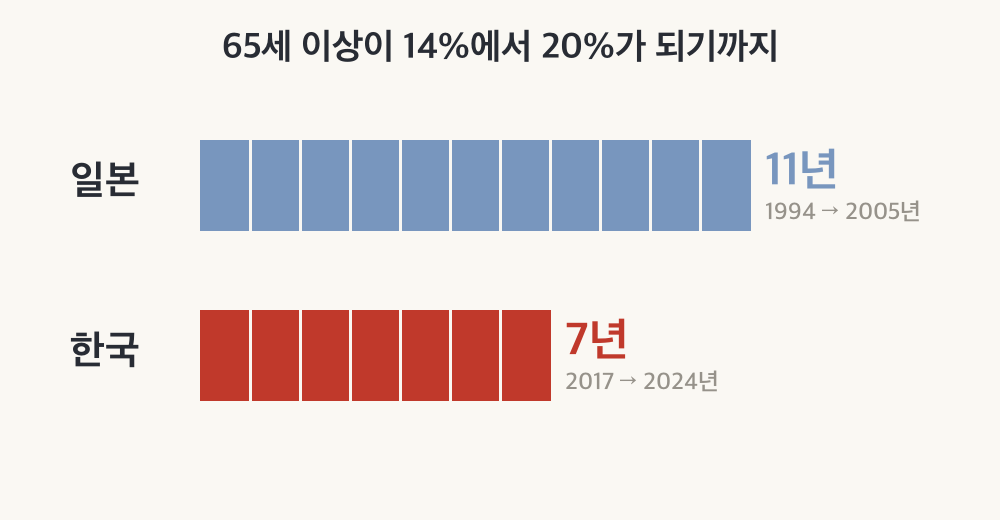
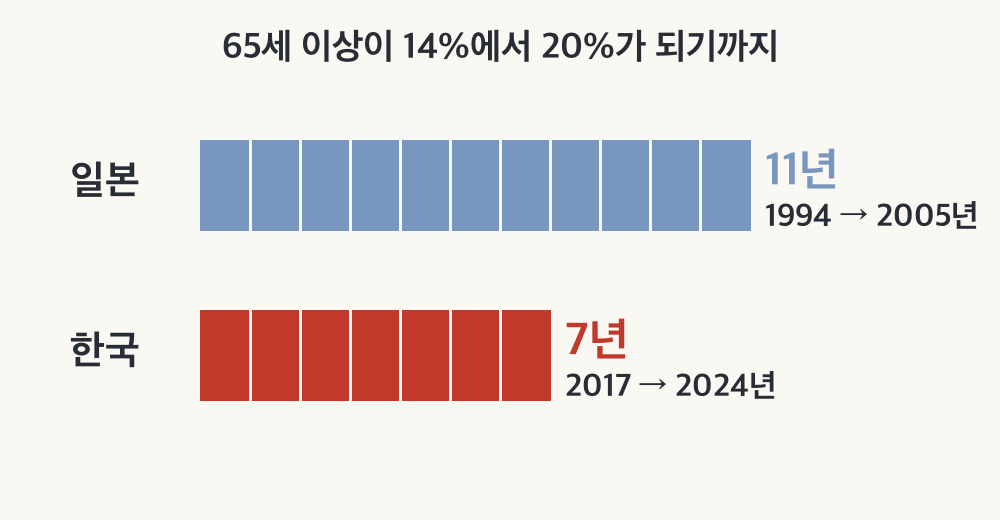
사회② 7-7 3단계 — 읽기 상자·접기를 넘김 카드 4장으로(그림 3장 새로, 속도 그림 글자 키움), 고령/초고령 나누는 까닭 보충 — id·answer·label 동일, 메인·역사 🔴0
Claude-Session: https://claude.ai/code/session_0112jfuNjXUAgEuhZG5Yg8vB

Changed region(s): [[0.744, 0.3692, 0.992, 0.4615], [0.558, 0.7077, 0.775, 0.7692]]

diff --git a/worksheets/7-7차시_우리나라의인구문제_개념편.html b/worksheets/7-7차시_우리나라의인구문제_개념편.html
@@ -1415,19 +1415,27 @@ details.v2t-legend ul{margin-top:10px}
 <br>
 <blockquote>🎙 노인 한 명을 떠받치는 사람이 줄어든다는 건, 한 사람이 짊어질 몫이 그만큼 무거워진다는 뜻이야. 교과서 그래프의 숫자가 해마다 어떻게 바뀌는지 짚어 보자.</blockquote>
 <br>
-<div class="ws-read"><div class="ws-read-tag">읽고 넘어가는 곳</div><p>Ⅴ단원의 '경제 활동 인구'는 15세 이상 가운데 일할 뜻과 능력이 있는 사람이었다. 오늘 나온 인구는 그보다 단순하게 <strong>나이로만</strong> 15~64세를 묶는다.</p><p>노인이 늘고 이 연령대가 줄면, 한 사람이 떠받쳐야 할 무게가 커진다.</p></div>
 <br>
-<details class="ws-fold ws-fold-더보기"><summary>다 채운 뒤에 — 예측보다 빨랐다</summary><div class="ws-fold-body">
-<p>교사용 교과서에 실린 2016년 예측은 우리나라의 65세 이상 비율이 2027년에 20%를 넘는다고 보았다. 실제로는 2024년 12월이었다. 예측보다 세 해 빨랐다.</p>
-<p>🎙 7-5에서 본 일본은 세계에서 가장 먼저 20%를 넘은 나라야. 그런 일본도 14%에서 20%까지 10년 넘게 걸렸는데, 우리나라는 7년 만에 왔어.</p>
-</div></details>
+<div class="ws-sw sw-news" id="sw65" data-cur="0"><div class="ws-sw-head">📰 다 채운 뒤에 넘겨 보자 — 계단, 떠받치는 사람, 빗나간 예측</div><div class="ws-sw-tabs" role="tablist"><button type="button" role="tab" class="ws-sw-tab on" onclick="swGo('sw65',0)" aria-label="먼저 위 칸부터">1</button><button type="button" role="tab" class="ws-sw-tab" onclick="swGo('sw65',1)" aria-label="왜 세 계단으로 나눌까">2</button><button type="button" role="tab" class="ws-sw-tab" onclick="swGo('sw65',2)" aria-label="노인 한 명을 떠받치는 사람">3</button><button type="button" role="tab" class="ws-sw-tab" onclick="swGo('sw65',3)" aria-label="예측보다 빨랐다">4</button></div><div class="ws-sw-stage">
+<section class="ws-sw-pane" data-i="0"><h3 class="ws-sw-h">먼저 위 칸부터</h3>
+<figure class="ws-fig"><a class="ws-fig-zoom" href="images/7-5_card_cover_v2.png" target="_blank" rel="noopener" title="눌러서 크게 보기"><img src="images/7-5_card_cover_v2.png" alt="먼저 위 칸에 내 답을 쓰고, 그다음 넘겨 보자" loading="lazy"></a><figcaption>먼저 위 칸에 내 답을 쓰고, 그다음 넘겨 보자</figcaption></figure>
+</section><section class="ws-sw-pane" data-i="1" hidden><h3 class="ws-sw-h">왜 세 계단으로 나눌까</h3>
+<figure class="ws-fig"><a class="ws-fig-zoom" href="images/7-7_fig_steps.png" target="_blank" rel="noopener" title="눌러서 크게 보기"><img src="images/7-7_fig_steps.png" alt="65세 이상 비율로 나눈 세 계단 — 7% 고령화 사회(한국 2000·일본 1970), 14% 고령 사회(한국 2017·일본 1994), 20% 초고령 사회(한국 2024·일본 2005)" loading="lazy"></a><figcaption>65세 이상 비율로 나눈 세 계단 — 7% 고령화 사회(한국 2000·일본 1970), 14% 고령 사회(한국 2017·일본 1994), 20% 초고령 사회(한국 2024·일본 2005)</figcaption></figure>
+<p>65세 이상이 전체 인구의 7%를 넘으면 고령화 사회, 14%를 넘으면 고령 사회, 20%를 넘으면 초고령 사회라고 부른다. 노인이 '몇 명'인지가 아니라 '몇 %'인지로 정한다. 100명 가운데 노인이 10명이면 10%다. 노인은 그대로 10명인데 아이가 덜 태어나 전체가 80명이 되면 12.5%로 오른다. 계단을 나눠 두면 다음 계단까지 몇 해 걸렸는지로 늙는 속도를 견줄 수 있다. 위 막대그래프(한국 7년, 일본 11년)가 바로 이 걸린 해를 견준 것이다.</p>
+</section><section class="ws-sw-pane" data-i="2" hidden><h3 class="ws-sw-h">노인 한 명을 떠받치는 사람</h3>
+<figure class="ws-fig"><a class="ws-fig-zoom" href="images/7-7_fig_support.png" target="_blank" rel="noopener" title="눌러서 크게 보기"><img src="images/7-7_fig_support.png" alt="노인 1명을 떠받치는 15~64세 — 2026년 약 3.2명, 2050년(추계) 약 1.3명" loading="lazy"></a><figcaption>노인 1명을 떠받치는 15~64세 — 2026년 약 3.2명, 2050년(추계) 약 1.3명</figcaption></figure>
+<p>Ⅴ단원의 '경제 활동 인구'는 15세 이상 가운데 일할 뜻과 능력이 있는 사람이었다. 위 빈칸 ④의 인구는 그보다 단순하게 나이로만 15~64세를 묶는다. 2026년에는 노인 한 명을 이 나이의 사람 3명 남짓이 떠받치지만, 2050년에는 1명 남짓이 떠받치게 될 것으로 내다본다.</p>
+</section><section class="ws-sw-pane" data-i="3" hidden><h3 class="ws-sw-h">예측보다 빨랐다</h3>
+<figure class="ws-fig"><a class="ws-fig-zoom" href="images/7-7_fig_forecast.png" target="_blank" rel="noopener" title="눌러서 크게 보기"><img src="images/7-7_fig_forecast.png" alt="65세 이상 20% — 2016년 예측은 2027년, 실제는 2024년 12월(2년 남짓 빨랐다)" loading="lazy"></a><figcaption>65세 이상 20% — 2016년 예측은 2027년, 실제는 2024년 12월(2년 남짓 빨랐다)</figcaption></figure>
+<p>2016년 미국 인구 조사국의 예측은 우리나라의 65세 이상 비율이 2027년에 20%를 넘는다고 보았다. 실제로는 2024년 12월로, 2년 남짓 빨랐다. 7-5에서 본 일본은 세계에서 가장 먼저 20%를 넘은 나라인데, 그런 일본도 14%에서 20%까지 10년 넘게 걸렸다.</p>
+</section></div><div class="ws-sw-nav"><button type="button" onclick="swStep('sw65',-1)">‹ 이전</button><span class="ws-sw-count"><b>1</b> / 4</span><button type="button" onclick="swStep('sw65',1)">다음 ›</button></div></div><script>(function(){if(!window.swGo){window.swGo=function(id,i){var g=document.getElementById(id);if(!g)return;var ps=g.querySelectorAll(".ws-sw-pane"),n=ps.length;i=((i%n)+n)%n;ps.forEach(function(e){e.hidden=(+e.dataset.i!==i);});g.querySelectorAll(".ws-sw-tab").forEach(function(e,k){e.classList.toggle("on",k===i);e.setAttribute("aria-selected",k===i);});var c=g.querySelector(".ws-sw-count b");if(c)c.textContent=i+1;g.dataset.cur=i;};window.swStep=function(id,d){var g=document.getElementById(id);if(g)swGo(id,(+(g.dataset.cur||0))+d);};}var g=document.getElementById("sw65"),x0=null,y0=null;if(!g)return;g.querySelector(".ws-sw-stage").addEventListener("touchstart",function(e){x0=e.touches[0].clientX;y0=e.touches[0].clientY;},{passive:true});g.querySelector(".ws-sw-stage").addEventListener("touchend",function(e){if(x0===null)return;var dx=e.changedTouches[0].clientX-x0,dy=e.changedTouches[0].clientY-y0;x0=null;if(Math.abs(dx)>60&&Math.abs(dx)>1.5*Math.abs(dy)){var t=e.target;if(t.closest&&t.closest("input,textarea,.ws-vcd-track,.ws-mb,.ws-gal,.pk-swipe"))return;swStep("sw65",dx<0?1:-1);g.scrollIntoView({block:"start",behavior:"smooth"});}},{passive:true});})();</script>
 <br>
 <h2>📖 4단계: 아빠의 육아 휴직, 일하는 노인</h2>
 <blockquote>📕 <strong>교과서 141쪽 펴고 · 배정 시간 9분</strong></blockquote>
 <br>
 <div class="ws-tb"><div class="ws-tb-tag">📕 교과서 141쪽 · 스스로 탐구 「우리나라의 저출산 문제」</div><div class="ws-2c c2-mid ws-tb-2cin" style="grid-template-columns:minmax(0,1fr) minmax(0,1.05fr)"><div class="c2-a"><figure class="ws-tb-fig"><img src="images/7-7_photo_dad.jpg" alt="아기 띠를 멘 아빠" loading="lazy"><figcaption>아기 띠를 멘 아빠</figcaption></figure></div><div class="c2-b"><div class="ws-tb-see">우리나라와 노르웨이의 합계 출산율 그래프와 아버지 육아 휴직 이야기를 읽자.</div><div class="ws-tb-see">노르웨이는 1993년부터 육아 휴직 가운데 아버지만 쓸 수 있는 몫을 따로 할당했다. 쉬는 동안에도 월급의 대부분을 받는 유급 휴직이다.</div><div class="ws-tb-ask">노르웨이의 사례를 보고, 우리나라의 합계 출산율을 높이려면 어떤 대책이 필요할지 적자. <input type="text" class="blank-input activity-input no-score" data-id="act-2" data-label="교과서 141쪽에서 찾기 — 노르웨이의 사례를 보고, 우리나라의 합계 출산율을 높이려면 어떤 대책" style="width:360px" placeholder=""></div></div></div></div>
 <br>
-<div class="ws-sw sw-news" id="sw76" data-cur="0"><div class="ws-sw-head">📰 다 채운 뒤에 넘겨 보자 — 교과서 그 뒤의 두 나라</div><div class="ws-sw-tabs" role="tablist"><button type="button" role="tab" class="ws-sw-tab on" onclick="swGo('sw76',0)" aria-label="우리나라 아빠는">1</button><button type="button" role="tab" class="ws-sw-tab" onclick="swGo('sw76',1)" aria-label="노르웨이는">2</button></div><div class="ws-sw-stage">
+<div class="ws-sw sw-news" id="sw84" data-cur="0"><div class="ws-sw-head">📰 다 채운 뒤에 넘겨 보자 — 교과서 그 뒤의 두 나라</div><div class="ws-sw-tabs" role="tablist"><button type="button" role="tab" class="ws-sw-tab on" onclick="swGo('sw84',0)" aria-label="우리나라 아빠는">1</button><button type="button" role="tab" class="ws-sw-tab" onclick="swGo('sw84',1)" aria-label="노르웨이는">2</button></div><div class="ws-sw-stage">
 <section class="ws-sw-pane" data-i="0"><h3 class="ws-sw-h">우리나라 아빠는</h3>
 <figure class="ws-fig"><a class="ws-fig-zoom" href="images/7-7_card_dad_v2.png" target="_blank" rel="noopener" title="눌러서 크게 보기"><img src="images/7-7_card_dad_v2.png" alt="2024년 육아 휴직을 쓴 사람 가운데 아빠는 열 명 가운데 셋 — 아빠 사용률은 처음으로 10%를 넘었다(10.2%)" loading="lazy"></a><figcaption>2024년 육아 휴직을 쓴 사람 가운데 아빠는 열 명 가운데 셋 — 아빠 사용률은 처음으로 10%를 넘었다(10.2%)</figcaption></figure>
 <p>교과서는 2014년 우리나라 아버지의 육아 휴직 사용률이 4.5%라고 적었다. 2024년에는 육아 휴직을 쓴 사람 열 명 가운데 셋이 아빠였고, 아빠들의 사용률이 처음으로 10%를 넘었다.</p>
@@ -1435,12 +1443,12 @@ details.v2t-legend ul{margin-top:10px}
 <figure class="ws-fig"><a class="ws-fig-zoom" href="images/7-7_map_norway.png" target="_blank" rel="noopener" title="눌러서 크게 보기"><img src="images/7-7_map_norway.png" alt="노르웨이 — 7-5에서 본 스웨덴·핀란드와 이웃한 북유럽 나라. 수도는 오슬로" loading="lazy"></a><figcaption>노르웨이 — 7-5에서 본 스웨덴·핀란드와 이웃한 북유럽 나라. 수도는 오슬로</figcaption></figure>
 <p>그런데 교과서가 본보기로 든 노르웨이의 합계 출산율도 2025년 1.48명으로, 스웨덴·프랑스처럼 내려와 있다.</p>
 <blockquote>🎙 7-5부터 계속 같은 질문이 나오지? 좋은 정책을 편 나라도 출산율이 내려간다면, 정책 말고 또 무엇이 필요할까. 마지막 칸에서 네 답을 들어 볼게.</blockquote>
-</section></div><div class="ws-sw-nav"><button type="button" onclick="swStep('sw76',-1)">‹ 이전</button><span class="ws-sw-count"><b>1</b> / 2</span><button type="button" onclick="swStep('sw76',1)">다음 ›</button></div></div><script>(function(){if(!window.swGo){window.swGo=function(id,i){var g=document.getElementById(id);if(!g)return;var ps=g.querySelectorAll(".ws-sw-pane"),n=ps.length;i=((i%n)+n)%n;ps.forEach(function(e){e.hidden=(+e.dataset.i!==i);});g.querySelectorAll(".ws-sw-tab").forEach(function(e,k){e.classList.toggle("on",k===i);e.setAttribute("aria-selected",k===i);});var c=g.querySelector(".ws-sw-count b");if(c)c.textContent=i+1;g.dataset.cur=i;};window.swStep=function(id,d){var g=document.getElementById(id);if(g)swGo(id,(+(g.dataset.cur||0))+d);};}var g=document.getElementById("sw76"),x0=null,y0=null;if(!g)return;g.querySelector(".ws-sw-stage").addEventListener("touchstart",function(e){x0=e.touches[0].clientX;y0=e.touches[0].clientY;},{passive:true});g.querySelector(".ws-sw-stage").addEventListener("touchend",function(e){if(x0===null)return;var dx=e.changedTouches[0].clientX-x0,dy=e.changedTouches[0].clientY-y0;x0=null;if(Math.abs(dx)>60&&Math.abs(dx)>1.5*Math.abs(dy)){var t=e.target;if(t.closest&&t.closest("input,textarea,.ws-vcd-track,.ws-mb,.ws-gal,.pk-swipe"))return;swStep("sw76",dx<0?1:-1);g.scrollIntoView({block:"start",behavior:"smooth"});}},{passive:true});})();</script>
+</section></div><div class="ws-sw-nav"><button type="button" onclick="swStep('sw84',-1)">‹ 이전</button><span class="ws-sw-count"><b>1</b> / 2</span><button type="button" onclick="swStep('sw84',1)">다음 ›</button></div></div><script>(function(){if(!window.swGo){window.swGo=function(id,i){var g=document.getElementById(id);if(!g)return;var ps=g.querySelectorAll(".ws-sw-pane"),n=ps.length;i=((i%n)+n)%n;ps.forEach(function(e){e.hidden=(+e.dataset.i!==i);});g.querySelectorAll(".ws-sw-tab").forEach(function(e,k){e.classList.toggle("on",k===i);e.setAttribute("aria-selected",k===i);});var c=g.querySelector(".ws-sw-count b");if(c)c.textContent=i+1;g.dataset.cur=i;};window.swStep=function(id,d){var g=document.getElementById(id);if(g)swGo(id,(+(g.dataset.cur||0))+d);};}var g=document.getElementById("sw84"),x0=null,y0=null;if(!g)return;g.querySelector(".ws-sw-stage").addEventListener("touchstart",function(e){x0=e.touches[0].clientX;y0=e.touches[0].clientY;},{passive:true});g.querySelector(".ws-sw-stage").addEventListener("touchend",function(e){if(x0===null)return;var dx=e.changedTouches[0].clientX-x0,dy=e.changedTouches[0].clientY-y0;x0=null;if(Math.abs(dx)>60&&Math.abs(dx)>1.5*Math.abs(dy)){var t=e.target;if(t.closest&&t.closest("input,textarea,.ws-vcd-track,.ws-mb,.ws-gal,.pk-swipe"))return;swStep("sw84",dx<0?1:-1);g.scrollIntoView({block:"start",behavior:"smooth"});}},{passive:true});})();</script>
 <br>
 <blockquote>📊 <strong>우리나라 노인 열 명 가운데 넷은 가난하다</strong> — 66세 이상 가운데 소득이 우리나라 중간 소득의 절반에 못 미치는 사람이 40.4%로, OECD 나라 가운데 가장 높다(평균 14.2%). 고령화 대책이 연금 하나로는 모자란 까닭이다.</blockquote>
 <br>
 <style>/* 2026-10-26 사회 7-5 «좁게» — 그림 없는 짧은 카드. 데스크톱은 한 줄에 다 놓고, 폰은 «이름·값 | 버튼» 한 줄씩 */ .pk-grid.pk-tight { grid-template-columns: repeat(auto-fit, minmax(118px, 1fr)); gap: 8px; } .pk-tight .pk-card { padding: 8px 6px; } .pk-tight .pk-sit { min-height: 0; margin: 2px 0 7px; } .pk-tight .pk-b { padding: 5px 1px; word-break: keep-all; line-height: 1.25; font-size: .74em; } .pk-tight .pk-btns { gap: 3px; } @media (max-width: 640px) {   .pk-grid.pk-tight { grid-template-columns: 1fr; gap: 6px; }   .pk-tight .pk-card { display: grid; grid-template-columns: minmax(0, 1fr) minmax(0, 1.25fr); column-gap: 10px; align-items: center; text-align: left; padding: 7px 10px; }   .pk-tight .pk-name, .pk-tight .pk-sit { grid-column: 1; margin: 0; }   .pk-tight .pk-btns { grid-column: 2; grid-row: 1 / span 2; }   .pk-tight .pk-why { grid-column: 1 / -1; } } /* 2026-10-27 사회 7-5 «센 수/견준 값»: 금테 카드도 «좁게» — 칸마다 깔던 크림 판 대신 카드 하나를 크림 판+금테(배경 두 겹)로. 폰 두 칸 배치에서 판이 조각나던 것 */ .pk-gold.pk-tight .pk-card, .pk-gold.pk-tight .pk-card.pk-noimg { padding: 9px 8px; border: 5px solid transparent; border-radius: 13px; background: linear-gradient(#fdf7e6, #fdf7e6) padding-box, linear-gradient(150deg, #fbe9a8 0%, #e7c257 34%, #c9992e 62%, #f3dc98 100%) border-box; } .pk-gold.pk-tight .pk-name, .pk-gold.pk-tight .pk-sit, .pk-gold.pk-tight .pk-btns, .pk-gold.pk-tight .pk-why, .pk-gold.pk-tight .pk-card.pk-noimg .pk-name { background: none; padding: 0; border-radius: 0; } .pk-gold.pk-tight .pk-name { font-size: .95em; line-height: 1.35; word-break: keep-all; } .pk-gold.pk-tight .pk-sit { word-break: keep-all; } .pk-gold.pk-tight .pk-sit { font-size: .8em; line-height: 1.4; margin: 3px 0 7px; } .pk-gold.pk-tight .pk-why { margin-top: 6px; } .pk-gold.pk-tight:has(> .pk-card:nth-child(6)), .pk-gold.pk-tight:has(.pk-b:nth-child(3)) { grid-template-columns: repeat(3, minmax(0, 1fr)); } @media (max-width: 640px) { .pk-grid.pk-gold.pk-tight, .pk-gold.pk-tight:has(> .pk-card:nth-child(6)), .pk-gold.pk-tight:has(.pk-b:nth-child(3)) { grid-template-columns: repeat(2, minmax(0, 1fr)); gap: 7px; } .pk-gold.pk-tight .pk-card, .pk-gold.pk-tight .pk-card.pk-noimg { display: flex; flex-direction: column; text-align: left; padding: 8px 10px; } .pk-gold.pk-tight .pk-sit { margin: 2px 0 6px; } .pk-gold.pk-tight .pk-card.pk-noimg .pk-btns:has(> .pk-b:nth-child(3)) { grid-auto-flow: row; grid-template-columns: 1fr; } .pk-gold.pk-tight .pk-card.pk-noimg .pk-btns:has(> .pk-b:nth-child(4)) { grid-template-columns: 1fr 1fr; } .pk-gold.pk-tight .pk-card.pk-noimg .pk-btns:not(.pk-btns-col) { align-content: center; } }</style>
-<div class="ws-pick" id="pk88"><div class="pk-head"><span>이 숫자는 어떻게 만든 숫자일까? 사람·물건을 하나하나 센 숫자(몇 명·몇 개)이면 '센 수', 전체나 넓이·사람 수로 나눠 견준 숫자(몇 %·○○당)이면 '견준 값'을 고르자. 다 고르면 정답이 나오고, 틀린 카드는 까닭이 먼저 펼쳐진다.</span><b class="pk-count">0 / 5</b></div><div class="pk-grid pk-gold pk-tight"><div class="pk-card pk-noimg" data-i="0" data-ans="견준 값"><div class="pk-name">전라남도 65세 이상 27.18%</div><div class="pk-sit">2024년 말 전라남도 사람 가운데 65세 이상</div><div class="pk-btns"><button type="button" class="pk-b" data-v="센 수">센 수</button><button type="button" class="pk-b" data-v="견준 값">견준 값</button></div><div class="pk-why" hidden>전라남도 사람 전체를 100으로 놓고 견준 값이다</div></div><div class="pk-card pk-noimg" data-i="1" data-ans="센 수"><div class="pk-name">2020년에 태어난 아기 27만 2,337명</div><div class="pk-sit">그해 우리나라에서 태어난 아기</div><div class="pk-btns"><button type="button" class="pk-b" data-v="센 수">센 수</button><button type="button" class="pk-b" data-v="견준 값">견준 값</button></div><div class="pk-why" hidden>아기 수를 그대로 센 값이다</div></div><div class="pk-card pk-noimg" data-i="2" data-ans="견준 값"><div class="pk-name">합계 출산율 0.80명</div><div class="pk-sit">2025년 우리나라 여성 한 명이 평생 낳을 것으로 예상되는 아이 수</div><div class="pk-btns"><button type="button" class="pk-b" data-v="센 수">센 수</button><button type="button" class="pk-b" data-v="견준 값">견준 값</button></div><div class="pk-why" hidden>'명'으로 끝나도 태어난 아이 수가 아니라, 여성 1명이 평생 낳을 것으로 예상되는 아이 수다 — 여성 1명에 견준 값이다</div></div><div class="pk-card pk-noimg" data-i="3" data-ans="견준 값"><div class="pk-name">노인 빈곤 40.4%</div><div class="pk-sit">66세 이상 가운데 중간 소득의 절반에 못 미치는 사람</div><div class="pk-btns"><button type="button" class="pk-b" data-v="센 수">센 수</button><button type="button" class="pk-b" data-v="견준 값">견준 값</button></div><div class="pk-why" hidden>66세 이상 전체를 100으로 놓고 견준 값이다</div></div><div class="pk-card pk-noimg" data-i="4" data-ans="센 수"><div class="pk-name">2020년에 세상을 떠난 사람 30만 4,948명</div><div class="pk-sit">그해 우리나라에서 세상을 떠난 사람</div><div class="pk-btns"><button type="button" class="pk-b" data-v="센 수">센 수</button><button type="button" class="pk-b" data-v="견준 값">견준 값</button></div><div class="pk-why" hidden>사람 수를 그대로 센 값이다</div></div></div><div class="pk-result" hidden></div></div><script>(function(){var w=document.getElementById("pk88");var cs=[].slice.call(w.querySelectorAll(".pk-card")),N=cs.length;var OPTS=["센 수", "견준 값"],MOOD=false,OPEN=false;function done(){return cs.filter(function(c){return c.dataset.pick}).length}function reveal(){var ok=0;cs.forEach(function(c){var right=c.dataset.pick===c.dataset.ans;if(right)ok++;c.classList.add(right?"pk-ok":"pk-no");if(!right&&MOOD){c.classList.remove("pk-happy","pk-sad");c.classList.add(c.dataset.ans==="웃음"?"pk-happy":"pk-sad");}if(!right||OPEN)c.querySelector(".pk-why").hidden=false;if(right&&!OPEN&&!c.dataset.tap){c.dataset.tap=1;c.classList.add("pk-tap");c.addEventListener("click",function(e){if(e.target.closest&&e.target.closest(".pk-b"))return;var y=c.querySelector(".pk-why");y.hidden=!y.hidden;});}});var r=w.querySelector(".pk-result");r.hidden=false;r.innerHTML="<b>"+ok+" / "+N+"</b> 맞혔어. "+(OPEN?"모든 카드의 이유가 펼쳐졌어 — 틀린 카드부터 보자.":"틀린 카드는 이유가 먼저 펼쳐졌어 — 거기부터 보자. 맞힌 카드도 누르면 이유가 열려.")+"<div class='pk-sum'>"+OPTS.map(function(o,oi){var head=MOOD?(o==="웃음"?"웃는 사람":"우는 사람"):o;var cls=MOOD?(o==="웃음"?"pk-up":"pk-down"):("pk-c"+oi);return "<div class='pk-col "+cls+"'><b>"+head+"</b>"+cs.filter(function(c){return c.dataset.ans===o}).map(function(c){return "<span>"+c.querySelector(".pk-name").textContent+"</span>"}).join("")+"</div>"}).join("")+"</div>";r.scrollIntoView({block:"nearest",behavior:"smooth"});}cs.forEach(function(c){c.querySelectorAll(".pk-b").forEach(function(b){b.addEventListener("click",function(){if(w.classList.contains("pk-done"))return;c.dataset.pick=b.dataset.v;c.classList.add("pk-set");if(MOOD){c.classList.remove("pk-happy","pk-sad");c.classList.add(b.dataset.v==="웃음"?"pk-happy":"pk-sad");}c.querySelectorAll(".pk-b").forEach(function(x){x.classList.toggle("on",x===b)});w.querySelector(".pk-count").textContent=done()+" / "+N;if(done()===N){w.classList.add("pk-done");reveal();}});});});})();</script>
+<div class="ws-pick" id="pk96"><div class="pk-head"><span>이 숫자는 어떻게 만든 숫자일까? 사람·물건을 하나하나 센 숫자(몇 명·몇 개)이면 '센 수', 전체나 넓이·사람 수로 나눠 견준 숫자(몇 %·○○당)이면 '견준 값'을 고르자. 다 고르면 정답이 나오고, 틀린 카드는 까닭이 먼저 펼쳐진다.</span><b class="pk-count">0 / 5</b></div><div class="pk-grid pk-gold pk-tight"><div class="pk-card pk-noimg" data-i="0" data-ans="견준 값"><div class="pk-name">전라남도 65세 이상 27.18%</div><div class="pk-sit">2024년 말 전라남도 사람 가운데 65세 이상</div><div class="pk-btns"><button type="button" class="pk-b" data-v="센 수">센 수</button><button type="button" class="pk-b" data-v="견준 값">견준 값</button></div><div class="pk-why" hidden>전라남도 사람 전체를 100으로 놓고 견준 값이다</div></div><div class="pk-card pk-noimg" data-i="1" data-ans="센 수"><div class="pk-name">2020년에 태어난 아기 27만 2,337명</div><div class="pk-sit">그해 우리나라에서 태어난 아기</div><div class="pk-btns"><button type="button" class="pk-b" data-v="센 수">센 수</button><button type="button" class="pk-b" data-v="견준 값">견준 값</button></div><div class="pk-why" hidden>아기 수를 그대로 센 값이다</div></div><div class="pk-card pk-noimg" data-i="2" data-ans="견준 값"><div class="pk-name">합계 출산율 0.80명</div><div class="pk-sit">2025년 우리나라 여성 한 명이 평생 낳을 것으로 예상되는 아이 수</div><div class="pk-btns"><button type="button" class="pk-b" data-v="센 수">센 수</button><button type="button" class="pk-b" data-v="견준 값">견준 값</button></div><div class="pk-why" hidden>'명'으로 끝나도 태어난 아이 수가 아니라, 여성 1명이 평생 낳을 것으로 예상되는 아이 수다 — 여성 1명에 견준 값이다</div></div><div class="pk-card pk-noimg" data-i="3" data-ans="견준 값"><div class="pk-name">노인 빈곤 40.4%</div><div class="pk-sit">66세 이상 가운데 중간 소득의 절반에 못 미치는 사람</div><div class="pk-btns"><button type="button" class="pk-b" data-v="센 수">센 수</button><button type="button" class="pk-b" data-v="견준 값">견준 값</button></div><div class="pk-why" hidden>66세 이상 전체를 100으로 놓고 견준 값이다</div></div><div class="pk-card pk-noimg" data-i="4" data-ans="센 수"><div class="pk-name">2020년에 세상을 떠난 사람 30만 4,948명</div><div class="pk-sit">그해 우리나라에서 세상을 떠난 사람</div><div class="pk-btns"><button type="button" class="pk-b" data-v="센 수">센 수</button><button type="button" class="pk-b" data-v="견준 값">견준 값</button></div><div class="pk-why" hidden>사람 수를 그대로 센 값이다</div></div></div><div class="pk-result" hidden></div></div><script>(function(){var w=document.getElementById("pk96");var cs=[].slice.call(w.querySelectorAll(".pk-card")),N=cs.length;var OPTS=["센 수", "견준 값"],MOOD=false,OPEN=false;function done(){return cs.filter(function(c){return c.dataset.pick}).length}function reveal(){var ok=0;cs.forEach(function(c){var right=c.dataset.pick===c.dataset.ans;if(right)ok++;c.classList.add(right?"pk-ok":"pk-no");if(!right&&MOOD){c.classList.remove("pk-happy","pk-sad");c.classList.add(c.dataset.ans==="웃음"?"pk-happy":"pk-sad");}if(!right||OPEN)c.querySelector(".pk-why").hidden=false;if(right&&!OPEN&&!c.dataset.tap){c.dataset.tap=1;c.classList.add("pk-tap");c.addEventListener("click",function(e){if(e.target.closest&&e.target.closest(".pk-b"))return;var y=c.querySelector(".pk-why");y.hidden=!y.hidden;});}});var r=w.querySelector(".pk-result");r.hidden=false;r.innerHTML="<b>"+ok+" / "+N+"</b> 맞혔어. "+(OPEN?"모든 카드의 이유가 펼쳐졌어 — 틀린 카드부터 보자.":"틀린 카드는 이유가 먼저 펼쳐졌어 — 거기부터 보자. 맞힌 카드도 누르면 이유가 열려.")+"<div class='pk-sum'>"+OPTS.map(function(o,oi){var head=MOOD?(o==="웃음"?"웃는 사람":"우는 사람"):o;var cls=MOOD?(o==="웃음"?"pk-up":"pk-down"):("pk-c"+oi);return "<div class='pk-col "+cls+"'><b>"+head+"</b>"+cs.filter(function(c){return c.dataset.ans===o}).map(function(c){return "<span>"+c.querySelector(".pk-name").textContent+"</span>"}).join("")+"</div>"}).join("")+"</div>";r.scrollIntoView({block:"nearest",behavior:"smooth"});}cs.forEach(function(c){c.querySelectorAll(".pk-b").forEach(function(b){b.addEventListener("click",function(){if(w.classList.contains("pk-done"))return;c.dataset.pick=b.dataset.v;c.classList.add("pk-set");if(MOOD){c.classList.remove("pk-happy","pk-sad");c.classList.add(b.dataset.v==="웃음"?"pk-happy":"pk-sad");}c.querySelectorAll(".pk-b").forEach(function(x){x.classList.toggle("on",x===b)});w.querySelector(".pk-count").textContent=done()+" / "+N;if(done()===N){w.classList.add("pk-done");reveal();}});});});})();</script>
 <br>
 <blockquote>🎙 같은 '명'이라도 0.80명과 27만 2,337명은 전혀 다른 숫자야. 하나는 엄마 한 사람에 견준 평균이고, 하나는 하나하나 센 아기 수야. 숫자 옆의 단위가 무엇에 견준 것인지부터 묻자.</blockquote>
 <br>
@@ -1474,7 +1482,7 @@ details.v2t-legend ul{margin-top:10px}
 <p>다 채웠으면 대책 카드로 '어떤 대책' 칸을 점검하자.</p>
 <br>
 <style>/* 2026-10-26 사회 7-5 «좁게» — 그림 없는 짧은 카드. 데스크톱은 한 줄에 다 놓고, 폰은 «이름·값 | 버튼» 한 줄씩 */ .pk-grid.pk-tight { grid-template-columns: repeat(auto-fit, minmax(118px, 1fr)); gap: 8px; } .pk-tight .pk-card { padding: 8px 6px; } .pk-tight .pk-sit { min-height: 0; margin: 2px 0 7px; } .pk-tight .pk-b { padding: 5px 1px; word-break: keep-all; line-height: 1.25; font-size: .74em; } .pk-tight .pk-btns { gap: 3px; } @media (max-width: 640px) {   .pk-grid.pk-tight { grid-template-columns: 1fr; gap: 6px; }   .pk-tight .pk-card { display: grid; grid-template-columns: minmax(0, 1fr) minmax(0, 1.25fr); column-gap: 10px; align-items: center; text-align: left; padding: 7px 10px; }   .pk-tight .pk-name, .pk-tight .pk-sit { grid-column: 1; margin: 0; }   .pk-tight .pk-btns { grid-column: 2; grid-row: 1 / span 2; }   .pk-tight .pk-why { grid-column: 1 / -1; } } /* 2026-10-27 사회 7-5 «센 수/견준 값»: 금테 카드도 «좁게» — 칸마다 깔던 크림 판 대신 카드 하나를 크림 판+금테(배경 두 겹)로. 폰 두 칸 배치에서 판이 조각나던 것 */ .pk-gold.pk-tight .pk-card, .pk-gold.pk-tight .pk-card.pk-noimg { padding: 9px 8px; border: 5px solid transparent; border-radius: 13px; background: linear-gradient(#fdf7e6, #fdf7e6) padding-box, linear-gradient(150deg, #fbe9a8 0%, #e7c257 34%, #c9992e 62%, #f3dc98 100%) border-box; } .pk-gold.pk-tight .pk-name, .pk-gold.pk-tight .pk-sit, .pk-gold.pk-tight .pk-btns, .pk-gold.pk-tight .pk-why, .pk-gold.pk-tight .pk-card.pk-noimg .pk-name { background: none; padding: 0; border-radius: 0; } .pk-gold.pk-tight .pk-name { font-size: .95em; line-height: 1.35; word-break: keep-all; } .pk-gold.pk-tight .pk-sit { word-break: keep-all; } .pk-gold.pk-tight .pk-sit { font-size: .8em; line-height: 1.4; margin: 3px 0 7px; } .pk-gold.pk-tight .pk-why { margin-top: 6px; } .pk-gold.pk-tight:has(> .pk-card:nth-child(6)), .pk-gold.pk-tight:has(.pk-b:nth-child(3)) { grid-template-columns: repeat(3, minmax(0, 1fr)); } @media (max-width: 640px) { .pk-grid.pk-gold.pk-tight, .pk-gold.pk-tight:has(> .pk-card:nth-child(6)), .pk-gold.pk-tight:has(.pk-b:nth-child(3)) { grid-template-columns: repeat(2, minmax(0, 1fr)); gap: 7px; } .pk-gold.pk-tight .pk-card, .pk-gold.pk-tight .pk-card.pk-noimg { display: flex; flex-direction: column; text-align: left; padding: 8px 10px; } .pk-gold.pk-tight .pk-sit { margin: 2px 0 6px; } .pk-gold.pk-tight .pk-card.pk-noimg .pk-btns:has(> .pk-b:nth-child(3)) { grid-auto-flow: row; grid-template-columns: 1fr; } .pk-gold.pk-tight .pk-card.pk-noimg .pk-btns:has(> .pk-b:nth-child(4)) { grid-template-columns: 1fr 1fr; } .pk-gold.pk-tight .pk-card.pk-noimg .pk-btns:not(.pk-btns-col) { align-content: center; } }</style>
-<div class="ws-pick" id="pk122"><div class="pk-head"><span>대책 여섯 가지다. 아이를 더 낳게 하려는 것인지, 늘어난 노인과 함께 살려는 것인지 골라 보자. 다 고르면 정답이 나오고, 틀린 카드는 까닭이 먼저 펼쳐진다.</span><b class="pk-count">0 / 6</b></div><div class="pk-grid pk-gold pk-tight"><div class="pk-card pk-noimg" data-i="0" data-ans="저출산 대책"><div class="pk-name">아빠 육아 휴직</div><div class="pk-sit">아버지도 휴직하고 아이를 돌본다</div><div class="pk-btns"><button type="button" class="pk-b" data-v="저출산 대책">저출산 대책</button><button type="button" class="pk-b" data-v="고령화 대책">고령화 대책</button></div><div class="pk-why" hidden>아이를 기르는 부담을 덜어 아이를 낳게 하려는 대책이다</div></div><div class="pk-card pk-noimg" data-i="1" data-ans="고령화 대책"><div class="pk-name">액티브 시니어 일자리</div><div class="pk-sit">일을 그만둘 나이(55세 이상)에 다시 일하는 정보 기술 회사</div><div class="pk-btns"><button type="button" class="pk-b" data-v="저출산 대책">저출산 대책</button><button type="button" class="pk-b" data-v="고령화 대책">고령화 대책</button></div><div class="pk-why" hidden>노인이 일하는 사람으로 남게 하는 대책이다</div></div><div class="pk-card pk-noimg" data-i="2" data-ans="저출산 대책"><div class="pk-name">공공 보육 시설</div><div class="pk-sit">나라가 어린이집을 늘린다</div><div class="pk-btns"><button type="button" class="pk-b" data-v="저출산 대책">저출산 대책</button><button type="button" class="pk-b" data-v="고령화 대책">고령화 대책</button></div><div class="pk-why" hidden>맞벌이 부모의 육아 부담을 덜어 준다(7-5 선진국 대책)</div></div><div class="pk-card pk-noimg" data-i="3" data-ans="고령화 대책"><div class="pk-name">실버 택배</div><div class="pk-sit">노인이 아파트로 택배를 나른다</div><div class="pk-btns"><button type="button" class="pk-b" data-v="저출산 대책">저출산 대책</button><button type="button" class="pk-b" data-v="고령화 대책">고령화 대책</button></div><div class="pk-why" hidden>노인에게 일자리와 소득을 준다</div></div><div class="pk-card pk-noimg" data-i="4" data-ans="고령화 대책"><div class="pk-name">노인 공동체 주택</div><div class="pk-sit">노인끼리 조합을 만들어 함께 산다(7-5 핀란드)</div><div class="pk-btns"><button type="button" class="pk-b" data-v="저출산 대책">저출산 대책</button><button type="button" class="pk-b" data-v="고령화 대책">고령화 대책</button></div><div class="pk-why" hidden>노인이 서로 돌보며 오래 스스로 살게 한다</div></div><div class="pk-card pk-noimg" data-i="5" data-ans="저출산 대책"><div class="pk-name">출산·양육비 지원</div><div class="pk-sit">아이를 낳고 기르는 데 드는 돈을 준다</div><div class="pk-btns"><button type="button" class="pk-b" data-v="저출산 대책">저출산 대책</button><button type="button" class="pk-b" data-v="고령화 대책">고령화 대책</button></div><div class="pk-why" hidden>아이를 기르는 비용 부담을 덜어 준다</div></div></div><div class="pk-result" hidden></div></div><script>(function(){var w=document.getElementById("pk122");var cs=[].slice.call(w.querySelectorAll(".pk-card")),N=cs.length;var OPTS=["저출산 대책", "고령화 대책"],MOOD=false,OPEN=false;function done(){return cs.filter(function(c){return c.dataset.pick}).length}function reveal(){var ok=0;cs.forEach(function(c){var right=c.dataset.pick===c.dataset.ans;if(right)ok++;c.classList.add(right?"pk-ok":"pk-no");if(!right&&MOOD){c.classList.remove("pk-happy","pk-sad");c.classList.add(c.dataset.ans==="웃음"?"pk-happy":"pk-sad");}if(!right||OPEN)c.querySelector(".pk-why").hidden=false;if(right&&!OPEN&&!c.dataset.tap){c.dataset.tap=1;c.classList.add("pk-tap");c.addEventListener("click",function(e){if(e.target.closest&&e.target.closest(".pk-b"))return;var y=c.querySelector(".pk-why");y.hidden=!y.hidden;});}});var r=w.querySelector(".pk-result");r.hidden=false;r.innerHTML="<b>"+ok+" / "+N+"</b> 맞혔어. "+(OPEN?"모든 카드의 이유가 펼쳐졌어 — 틀린 카드부터 보자.":"틀린 카드는 이유가 먼저 펼쳐졌어 — 거기부터 보자. 맞힌 카드도 누르면 이유가 열려.")+"<div class='pk-sum'>"+OPTS.map(function(o,oi){var head=MOOD?(o==="웃음"?"웃는 사람":"우는 사람"):o;var cls=MOOD?(o==="웃음"?"pk-up":"pk-down"):("pk-c"+oi);return "<div class='pk-col "+cls+"'><b>"+head+"</b>"+cs.filter(function(c){return c.dataset.ans===o}).map(function(c){return "<span>"+c.querySelector(".pk-name").textContent+"</span>"}).join("")+"</div>"}).join("")+"</div>";r.scrollIntoView({block:"nearest",behavior:"smooth"});}cs.forEach(function(c){c.querySelectorAll(".pk-b").forEach(function(b){b.addEventListener("click",function(){if(w.classList.contains("pk-done"))return;c.dataset.pick=b.dataset.v;c.classList.add("pk-set");if(MOOD){c.classList.remove("pk-happy","pk-sad");c.classList.add(b.dataset.v==="웃음"?"pk-happy":"pk-sad");}c.querySelectorAll(".pk-b").forEach(function(x){x.classList.toggle("on",x===b)});w.querySelector(".pk-count").textContent=done()+" / "+N;if(done()===N){w.classList.add("pk-done");reveal();}});});});})();</script>
+<div class="ws-pick" id="pk130"><div class="pk-head"><span>대책 여섯 가지다. 아이를 더 낳게 하려는 것인지, 늘어난 노인과 함께 살려는 것인지 골라 보자. 다 고르면 정답이 나오고, 틀린 카드는 까닭이 먼저 펼쳐진다.</span><b class="pk-count">0 / 6</b></div><div class="pk-grid pk-gold pk-tight"><div class="pk-card pk-noimg" data-i="0" data-ans="저출산 대책"><div class="pk-name">아빠 육아 휴직</div><div class="pk-sit">아버지도 휴직하고 아이를 돌본다</div><div class="pk-btns"><button type="button" class="pk-b" data-v="저출산 대책">저출산 대책</button><button type="button" class="pk-b" data-v="고령화 대책">고령화 대책</button></div><div class="pk-why" hidden>아이를 기르는 부담을 덜어 아이를 낳게 하려는 대책이다</div></div><div class="pk-card pk-noimg" data-i="1" data-ans="고령화 대책"><div class="pk-name">액티브 시니어 일자리</div><div class="pk-sit">일을 그만둘 나이(55세 이상)에 다시 일하는 정보 기술 회사</div><div class="pk-btns"><button type="button" class="pk-b" data-v="저출산 대책">저출산 대책</button><button type="button" class="pk-b" data-v="고령화 대책">고령화 대책</button></div><div class="pk-why" hidden>노인이 일하는 사람으로 남게 하는 대책이다</div></div><div class="pk-card pk-noimg" data-i="2" data-ans="저출산 대책"><div class="pk-name">공공 보육 시설</div><div class="pk-sit">나라가 어린이집을 늘린다</div><div class="pk-btns"><button type="button" class="pk-b" data-v="저출산 대책">저출산 대책</button><button type="button" class="pk-b" data-v="고령화 대책">고령화 대책</button></div><div class="pk-why" hidden>맞벌이 부모의 육아 부담을 덜어 준다(7-5 선진국 대책)</div></div><div class="pk-card pk-noimg" data-i="3" data-ans="고령화 대책"><div class="pk-name">실버 택배</div><div class="pk-sit">노인이 아파트로 택배를 나른다</div><div class="pk-btns"><button type="button" class="pk-b" data-v="저출산 대책">저출산 대책</button><button type="button" class="pk-b" data-v="고령화 대책">고령화 대책</button></div><div class="pk-why" hidden>노인에게 일자리와 소득을 준다</div></div><div class="pk-card pk-noimg" data-i="4" data-ans="고령화 대책"><div class="pk-name">노인 공동체 주택</div><div class="pk-sit">노인끼리 조합을 만들어 함께 산다(7-5 핀란드)</div><div class="pk-btns"><button type="button" class="pk-b" data-v="저출산 대책">저출산 대책</button><button type="button" class="pk-b" data-v="고령화 대책">고령화 대책</button></div><div class="pk-why" hidden>노인이 서로 돌보며 오래 스스로 살게 한다</div></div><div class="pk-card pk-noimg" data-i="5" data-ans="저출산 대책"><div class="pk-name">출산·양육비 지원</div><div class="pk-sit">아이를 낳고 기르는 데 드는 돈을 준다</div><div class="pk-btns"><button type="button" class="pk-b" data-v="저출산 대책">저출산 대책</button><button type="button" class="pk-b" data-v="고령화 대책">고령화 대책</button></div><div class="pk-why" hidden>아이를 기르는 비용 부담을 덜어 준다</div></div></div><div class="pk-result" hidden></div></div><script>(function(){var w=document.getElementById("pk130");var cs=[].slice.call(w.querySelectorAll(".pk-card")),N=cs.length;var OPTS=["저출산 대책", "고령화 대책"],MOOD=false,OPEN=false;function done(){return cs.filter(function(c){return c.dataset.pick}).length}function reveal(){var ok=0;cs.forEach(function(c){var right=c.dataset.pick===c.dataset.ans;if(right)ok++;c.classList.add(right?"pk-ok":"pk-no");if(!right&&MOOD){c.classList.remove("pk-happy","pk-sad");c.classList.add(c.dataset.ans==="웃음"?"pk-happy":"pk-sad");}if(!right||OPEN)c.querySelector(".pk-why").hidden=false;if(right&&!OPEN&&!c.dataset.tap){c.dataset.tap=1;c.classList.add("pk-tap");c.addEventListener("click",function(e){if(e.target.closest&&e.target.closest(".pk-b"))return;var y=c.querySelector(".pk-why");y.hidden=!y.hidden;});}});var r=w.querySelector(".pk-result");r.hidden=false;r.innerHTML="<b>"+ok+" / "+N+"</b> 맞혔어. "+(OPEN?"모든 카드의 이유가 펼쳐졌어 — 틀린 카드부터 보자.":"틀린 카드는 이유가 먼저 펼쳐졌어 — 거기부터 보자. 맞힌 카드도 누르면 이유가 열려.")+"<div class='pk-sum'>"+OPTS.map(function(o,oi){var head=MOOD?(o==="웃음"?"웃는 사람":"우는 사람"):o;var cls=MOOD?(o==="웃음"?"pk-up":"pk-down"):("pk-c"+oi);return "<div class='pk-col "+cls+"'><b>"+head+"</b>"+cs.filter(function(c){return c.dataset.ans===o}).map(function(c){return "<span>"+c.querySelector(".pk-name").textContent+"</span>"}).join("")+"</div>"}).join("")+"</div>";r.scrollIntoView({block:"nearest",behavior:"smooth"});}cs.forEach(function(c){c.querySelectorAll(".pk-b").forEach(function(b){b.addEventListener("click",function(){if(w.classList.contains("pk-done"))return;c.dataset.pick=b.dataset.v;c.classList.add("pk-set");if(MOOD){c.classList.remove("pk-happy","pk-sad");c.classList.add(b.dataset.v==="웃음"?"pk-happy":"pk-sad");}c.querySelectorAll(".pk-b").forEach(function(x){x.classList.toggle("on",x===b)});w.querySelector(".pk-count").textContent=done()+" / "+N;if(done()===N){w.classList.add("pk-done");reveal();}});});});})();</script>
 <br>
 </section><section class="ws-do"><div class="ws-do-tag">직접 해 보는 곳</div><h2>❓ OX 퀴즈</h2>
 <br>
@@ -1498,7 +1506,7 @@ details.v2t-legend ul{margin-top:10px}
 </section><h2>🗺 단원 정리 — 같은 문제, 다른 나라</h2>
 <blockquote>🎙 Ⅶ단원에서 만난 여섯 나라를 한 지도에 모았어. 막대를 밀어 1970년에서 2024년으로 가 보자. 원이 줄어들며 파랗게 바뀌는 나라는 어디고, 아직 붉은 나라는 어디일까? 우리나라 원이 얼마나 빨리 작아지는지도 봐.</blockquote>
 <br>
-<div class="ws-mapbar" id="mb147"><div class="ws-mb-head">여섯 나라의 합계 출산율 — 1970년부터 2024년까지</div><div class="ws-mb-map"><img src="images/7-7_tfr_world.png" alt="세계 지도 위에 한국·일본·인도·니제르·프랑스·스웨덴의 위치를 원으로 표시한 지도" loading="lazy"><span class="mb-pin mb-l" style="left:81.7%;top:26.3%"><i></i><b class="mb-lab">한국 <em></em></b></span><span class="mb-pin mb-u" style="left:84.3%;top:26.3%"><i></i><b class="mb-lab">일본 <em></em></b></span><span class="mb-pin mb-d" style="left:70.7%;top:36.9%"><i></i><b class="mb-lab">인도 <em></em></b></span><span class="mb-pin mb-l" style="left:52.2%;top:41.3%"><i></i><b class="mb-lab">니제르 <em></em></b></span><span class="mb-pin mb-l" style="left:50.3%;top:19.2%"><i></i><b class="mb-lab">프랑스 <em></em></b></span><span class="mb-pin mb-r" style="left:53.0%;top:9.7%"><i></i><b class="mb-lab">스웨덴 <em></em></b></span></div><div class="ws-mb-legend"><span><i class="mb-hi"></i>2.1명보다 높다</span><span><i class="mb-lo"></i>2.1명보다 낮다</span><span class="mb-bt">인구가 늘지도 줄지도 않는 수준</span></div><div class="ws-mb-ctl"><button type="button" class="ws-mb-play" aria-label="처음부터 넘겨 보기">▶</button><input type="range" class="ws-mb-range" min="0" max="6" value="0" step="1" aria-label="연도 고르기"><span class="ws-mb-yr"></span></div><div class="ws-mb-read" aria-live="polite"></div></div><script>(function(){var D={"y": ["1970", "1980", "1990", "2000", "2010", "2020", "2024"], "p": [{"n": "한국", "v": [4.53, 2.82, 1.57, 1.48, 1.23, 0.84, 0.75]}, {"n": "일본", "v": [2.13, 1.75, 1.54, 1.36, 1.39, 1.33, 1.15]}, {"n": "인도", "v": [5.62, 4.78, 4.04, 3.35, 2.6, 2.05, 1.96]}, {"n": "니제르", "v": [7.51, 7.78, 7.81, 7.83, 7.64, 6.37, 5.93]}, {"n": "프랑스", "v": [2.55, 1.85, 1.77, 1.89, 2.03, 1.82, 1.61]}, {"n": "스웨덴", "v": [1.92, 1.68, 2.13, 1.54, 1.98, 1.67, 1.43]}], "u": "명", "d": 2, "b": 2.1};var w=document.getElementById("mb147"),rg=w.querySelector(".ws-mb-range"),yr=w.querySelector(".ws-mb-yr"),rd=w.querySelector(".ws-mb-read"),pl=w.querySelector(".ws-mb-play"),ps=w.querySelectorAll(".mb-pin"),mp=w.querySelector(".ws-mb-map"),n=D.y.length;var mx=0;D.p.forEach(function(p){p.v.forEach(function(v){if(v>mx)mx=v;});});function fmt(v){var m=Math.pow(10,D.d);return (Math.round(v*m+1e-9)/m).toFixed(D.d);}function draw(i){i=+i;D.p.forEach(function(p,k){var v=p.v[i],e=ps[k],r=Math.round((8+22*Math.sqrt(v/mx))*Math.max(.55,Math.min(1,mp.clientWidth/700)));var dot=e.querySelector("i");dot.style.width=dot.style.height=r+"px";dot.style.marginLeft=dot.style.marginTop=(-r/2)+"px";e.classList.toggle("mb-up",D.b!=null&&v>=D.b);e.classList.toggle("mb-dn",D.b!=null&&v<D.b);e.querySelector("em").textContent=fmt(v);});yr.textContent=D.y[i]+"년";var o=D.p.map(function(p){return p;}).sort(function(a,b){return b.v[i]-a.v[i];});rd.innerHTML="<b>"+D.y[i]+"년</b> — "+o.map(function(p){return p.n+" <b>"+fmt(p.v[i])+"</b>";}).join(" · ")+(D.u?" ("+D.u+")":"");rg.value=i;}rg.addEventListener("input",function(){draw(rg.value);});var tm=null;pl.addEventListener("click",function(){if(tm){clearInterval(tm);tm=null;pl.textContent="▶";return;}if(window.matchMedia&&matchMedia("(prefers-reduced-motion: reduce)").matches){draw(n-1);return;}var i=0;draw(0);pl.textContent="■";tm=setInterval(function(){i++;draw(i);if(i>=n-1){clearInterval(tm);tm=null;pl.textContent="▶";}},900);});addEventListener("resize",function(){draw(rg.value);});window.addEventListener("beforeprint",function(){draw(n-1);});draw(0);})();</script>
+<div class="ws-mapbar" id="mb155"><div class="ws-mb-head">여섯 나라의 합계 출산율 — 1970년부터 2024년까지</div><div class="ws-mb-map"><img src="images/7-7_tfr_world.png" alt="세계 지도 위에 한국·일본·인도·니제르·프랑스·스웨덴의 위치를 원으로 표시한 지도" loading="lazy"><span class="mb-pin mb-l" style="left:81.7%;top:26.3%"><i></i><b class="mb-lab">한국 <em></em></b></span><span class="mb-pin mb-u" style="left:84.3%;top:26.3%"><i></i><b class="mb-lab">일본 <em></em></b></span><span class="mb-pin mb-d" style="left:70.7%;top:36.9%"><i></i><b class="mb-lab">인도 <em></em></b></span><span class="mb-pin mb-l" style="left:52.2%;top:41.3%"><i></i><b class="mb-lab">니제르 <em></em></b></span><span class="mb-pin mb-l" style="left:50.3%;top:19.2%"><i></i><b class="mb-lab">프랑스 <em></em></b></span><span class="mb-pin mb-r" style="left:53.0%;top:9.7%"><i></i><b class="mb-lab">스웨덴 <em></em></b></span></div><div class="ws-mb-legend"><span><i class="mb-hi"></i>2.1명보다 높다</span><span><i class="mb-lo"></i>2.1명보다 낮다</span><span class="mb-bt">인구가 늘지도 줄지도 않는 수준</span></div><div class="ws-mb-ctl"><button type="button" class="ws-mb-play" aria-label="처음부터 넘겨 보기">▶</button><input type="range" class="ws-mb-range" min="0" max="6" value="0" step="1" aria-label="연도 고르기"><span class="ws-mb-yr"></span></div><div class="ws-mb-read" aria-live="polite"></div></div><script>(function(){var D={"y": ["1970", "1980", "1990", "2000", "2010", "2020", "2024"], "p": [{"n": "한국", "v": [4.53, 2.82, 1.57, 1.48, 1.23, 0.84, 0.75]}, {"n": "일본", "v": [2.13, 1.75, 1.54, 1.36, 1.39, 1.33, 1.15]}, {"n": "인도", "v": [5.62, 4.78, 4.04, 3.35, 2.6, 2.05, 1.96]}, {"n": "니제르", "v": [7.51, 7.78, 7.81, 7.83, 7.64, 6.37, 5.93]}, {"n": "프랑스", "v": [2.55, 1.85, 1.77, 1.89, 2.03, 1.82, 1.61]}, {"n": "스웨덴", "v": [1.92, 1.68, 2.13, 1.54, 1.98, 1.67, 1.43]}], "u": "명", "d": 2, "b": 2.1};var w=document.getElementById("mb155"),rg=w.querySelector(".ws-mb-range"),yr=w.querySelector(".ws-mb-yr"),rd=w.querySelector(".ws-mb-read"),pl=w.querySelector(".ws-mb-play"),ps=w.querySelectorAll(".mb-pin"),mp=w.querySelector(".ws-mb-map"),n=D.y.length;var mx=0;D.p.forEach(function(p){p.v.forEach(function(v){if(v>mx)mx=v;});});function fmt(v){var m=Math.pow(10,D.d);return (Math.round(v*m+1e-9)/m).toFixed(D.d);}function draw(i){i=+i;D.p.forEach(function(p,k){var v=p.v[i],e=ps[k],r=Math.round((8+22*Math.sqrt(v/mx))*Math.max(.55,Math.min(1,mp.clientWidth/700)));var dot=e.querySelector("i");dot.style.width=dot.style.height=r+"px";dot.style.marginLeft=dot.style.marginTop=(-r/2)+"px";e.classList.toggle("mb-up",D.b!=null&&v>=D.b);e.classList.toggle("mb-dn",D.b!=null&&v<D.b);e.querySelector("em").textContent=fmt(v);});yr.textContent=D.y[i]+"년";var o=D.p.map(function(p){return p;}).sort(function(a,b){return b.v[i]-a.v[i];});rd.innerHTML="<b>"+D.y[i]+"년</b> — "+o.map(function(p){return p.n+" <b>"+fmt(p.v[i])+"</b>";}).join(" · ")+(D.u?" ("+D.u+")":"");rg.value=i;}rg.addEventListener("input",function(){draw(rg.value);});var tm=null;pl.addEventListener("click",function(){if(tm){clearInterval(tm);tm=null;pl.textContent="▶";return;}if(window.matchMedia&&matchMedia("(prefers-reduced-motion: reduce)").matches){draw(n-1);return;}var i=0;draw(0);pl.textContent="■";tm=setInterval(function(){i++;draw(i);if(i>=n-1){clearInterval(tm);tm=null;pl.textContent="▶";}},900);});addEventListener("resize",function(){draw(rg.value);});window.addEventListener("beforeprint",function(){draw(n-1);});draw(0);})();</script>
 <br>
 <section class="ws-do"><div class="ws-do-tag">직접 해 보는 곳</div><h2>💭 더 생각해 보기</h2>
 <p>📂 <strong>포트폴리오 ③ 종합</strong> — 7-5·7-6의 마지막 칸과 활동 1 비교표를 바탕으로 쓴다.</p>
